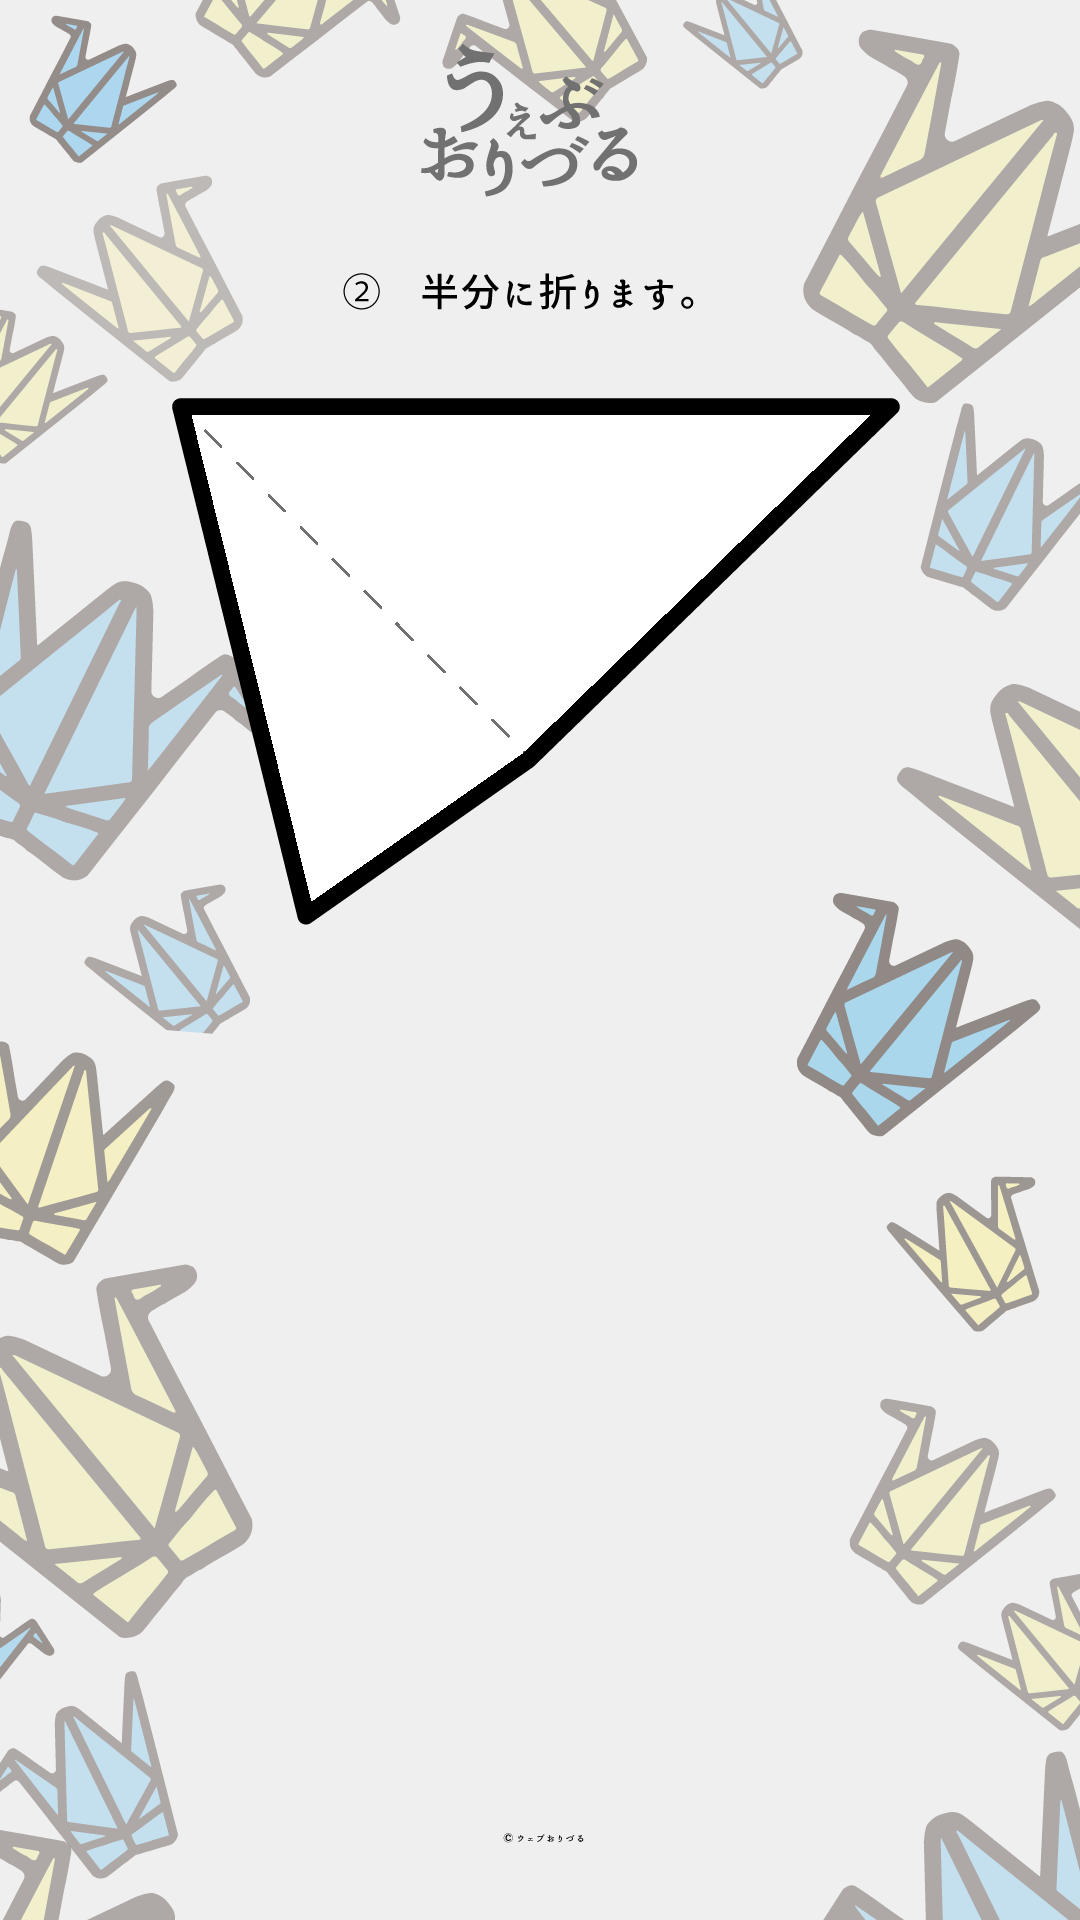
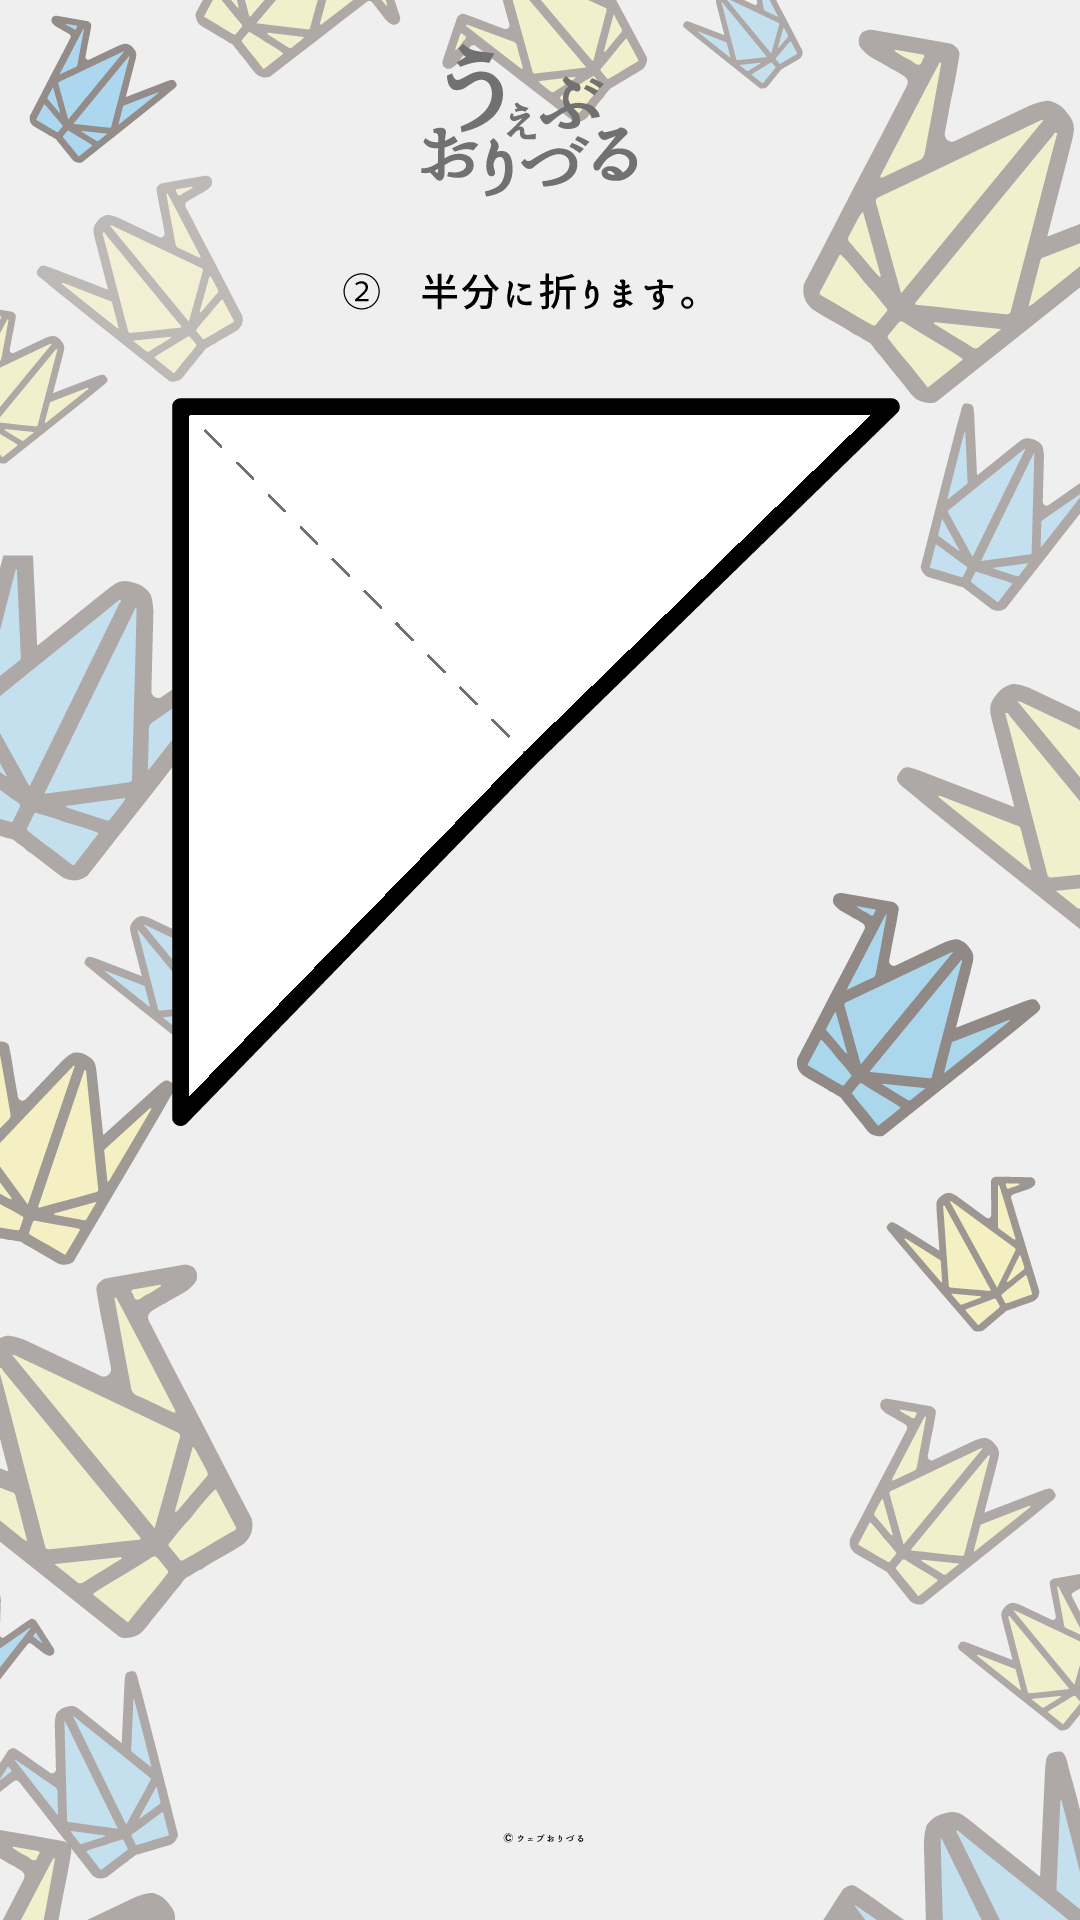
update

Changed region(s): [[0.1528, 0.2188, 0.4889, 0.5938], [0.0, 0.25, 0.0306, 0.3125]]

diff --git a/js/Paper.js b/js/Paper.js
@@ -21,18 +21,46 @@ class Paper {
             img[0] = creatImage("play/play_01_001");
             img[1] = creatImage("play/play_01_002");
             img[2] = creatImage("play/play_01_003");
-            img[3] = creatImage("play/play_01_004");
-            this.blink_arrow = new Blink("play/arrow01",width/2,height/2,width,height,2000);
-            this.blink_touch = new Blink("play/hand01",580,1100,width,height,2000);
+            img[3] = creatImage("play/play_02_001");
+            this.blink_arrow = new Blink("play/arrow01",540,700,270,320,0,2000);
+            this.blink_touch = new Blink("play/hand01",890+20,1100+200,280,440,0,2000);
         }
         else if(num == 2){
             img[0] = img[3];
-            img[1] = creatImage("play/play_02_001");
-            img[2] = creatImage("play/play_02_002");
-            img[3] = creatImage("play/play_02_003");
-            img[4] = creatImage("play/play_02_004");
-            this.blink_arrow = new Blink("play/arrow01",width/2,height/2,width,height,2000);
-            this.blink_touch = new Blink("play/hand01",580,1100,width,height,2000);
+            img[1] = creatImage("play/play_02_002");
+            img[2] = creatImage("play/play_02_003");
+            img[3] = creatImage("play/play_02_004");
+            img[4] = creatImage("play/play_03_001");
+            this.blink_arrow = new Blink("play/arrow02",440,600,270,320,0,2000);
+            this.blink_touch = new Blink("play/hand01",180+20,1110+200,280,440,0,2000);
+        }
+        else if(num == 3){
+            img[0] = img[4];
+            img[1] = creatImage("play/play_03_002");
+            img[2] = creatImage("play/play_03_003");
+            img[3] = creatImage("play/play_03_004");
+            img[4] = creatImage("play/play_04_001");
+            this.blink_arrow = new Blink("play/arrow02",890,830,270,320,120,2000);
+            this.blink_touch = new Blink("play/hand01",890+20,400+200,280,440,0,2000);
+        }
+        else if(num == 4){
+            img[0] = img[4];
+            img[1] = creatImage("play/play_04_002");
+            img[2] = creatImage("play/play_04_003");
+            img[3] = creatImage("play/play_04_004");
+            img[4] = creatImage("play/play_04_005");
+            this.blink_arrow = new Blink("play/arrow01",590,560,270,320,-90,2000);
+            this.blink_touch = new Blink("play/hand01",900+20,460+200,280,440,0,2000);
+        }
+        
+        else if(num == 4){
+            img[0] = img[4];
+            img[1] = creatImage("play/play_04_002");
+            img[2] = creatImage("play/play_04_003");
+            img[3] = creatImage("play/play_04_004");
+            img[4] = creatImage("play/play_04_005");
+            this.blink_arrow = new Blink("play/arrow01",590,560,270,320,-90,2000);
+            this.blink_touch = new Blink("play/hand01",900+20,460+200,280,440,0,2000);
         }
         
         
@@ -42,16 +70,30 @@ class Paper {
         this.num++;
         this.touch_start = false;
         delete this.img;
-        this.setNext(1,890,1100,700,930,false,1);
-        this.setNext(2,this.x2,this.y2,430,660,true,-1);
-        this.setNext(3,this.x2,this.y2,180,410,false,-1);
-        this.setNext(4,this.x2,this.y2,180,410,false,-1);
+        this.setNext( 1,890,1100,700,930,false,1);
+        this.setNext( 2,this.x2,this.y2,430,660,true,-1);
+        this.setNext( 3,this.x2,this.y2,180,410,false,-1);
         
-        this.setNext(5,180,1110,300,900,false,2);
-        this.setNext(6,this.x2,this.y2,530,760,true,-1);
-        this.setNext(7,this.x2,this.y2,610,530,false,-1);
-        this.setNext(8,this.x2,this.y2,880,410,false,-1);
-        this.setNext(9,this.x2,this.y2,880,410,false,-1);
+        this.setNext( 4,180,1110,300,900,false,2);
+        this.setNext( 5,this.x2,this.y2,530,760,true,-1);
+        this.setNext( 6,this.x2,this.y2,680,610,false,-1);
+        this.setNext( 7,this.x2,this.y2,880,410,false,-1);
+        
+        this.setNext( 8,890,400,890,600,false,3);
+        this.setNext( 9,this.x2,this.y2,890,800,true,-1);
+        this.setNext(10,this.x2,this.y2,890,1000,false,-1);
+        this.setNext(11,this.x2,this.y2,890,1200,false,-1);
+        
+        this.setNext(12,900,460,790,500,false,4);
+        this.setNext(13,this.x2,this.y2,620,530,true,-1);
+        this.setNext(14,this.x2,this.y2,410,720,false,-1);
+        if(this.num == 15){
+            this.blink_arrow = new Blink("play/arrow01",400,700,270,320,-120,2000);
+            this.blink_touch = new Blink("play/hand01",410+20,460+200,280,440,0,2000);
+        }
+        this.setNext(15,410,460,410,960,false,-1);
+        
+        this.setNext(16,this.x2,this.y2,410,960,true,-1);
         
     }
     
@@ -90,8 +132,9 @@ class Paper {
     draw(){
         drawImage(this.back_img, 0, 0, 1080, 1920, 0, 255);
         if(img[this.img_num] != null) drawImage(img[this.img_num], 0, 0, 1080, 1920, 0, 255);
-        drawCircle(this.x1,this.y1,100,0,255,0,0.5);
-        drawCircle(this.x2,this.y2,100,0,255,0,0.5);
+        //drawCircle(this.x1,this.y1,100,0,255,0,0.5);
+        //drawCircle(this.x2,this.y2,100,0,255,0,0.5);
+        
         if(this.blink_arrow != null){
             this.blink_arrow.draw();
         }

diff --git a/js/Blink.js b/js/Blink.js
@@ -1,14 +1,15 @@
 class Blink{
-    constructor(img,x,y,w,h,max_count) {
+    constructor(img,x,y,w,h,r,max_count) {
         this.img = creatImage(img);
         this.x = x;
         this.y = y;
         this.w = w;
         this.h = h;
+        this.r = r;
         this.max_count  = max_count + 0.1;
     }
     draw(){
         var alpha = 55 + 200 * Math.sin(Math.PI * ((timer%this.max_count)/this.max_count));
-        drawImage(this.img, this.x-this.w/2, this.y-this.h/2, this.w, this.h, 0, alpha);
+        drawImage(this.img, this.x-this.w/2, this.y-this.h/2, this.w, this.h, this.r, alpha);
     }
 }
